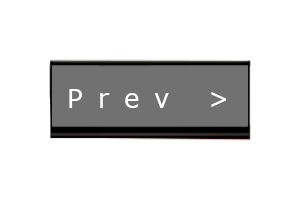
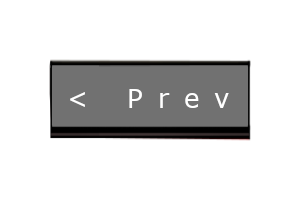
a

diff --git a/Pokedex/main.js b/Pokedex/main.js
@@ -2,17 +2,18 @@ const pokemonImg = document.querySelector('#imgPoke')
 const inptPoke = document.querySelector('#namePoke')
 const nomePoke = document.querySelector('#nomePoke')
 const IDpoke = document.querySelector('#IDpoke')
+const btprev =  document.querySelector('#prev')
+const btnext =  document.querySelector('#next')
 
+var idAtual = 1
 const fetchPoke = async (pokemon) =>{
     const APIresp = await fetch(`https://pokeapi.co/api/v2/pokemon/${pokemon}`);
     const APIdata = await APIresp.json();
-    console.log(APIdata)
     return APIdata
 }
 
 const renderPoke = async (pokemon) => {
     const data = await fetchPoke(pokemon)
-    console.log(data)
     if (data.id > 649){
         pokemonImg.src = data['sprites']['front_default'] // ['versions']['generation-vi']['x-y']
         pokemonImg.style.width = "215px"
@@ -33,4 +34,21 @@ inptPoke.addEventListener('change', (event) => {
     renderPoke(inptPoke.value.toLowerCase())
 });
 
-renderPoke('1')
+btprev.addEventListener('click' , (event) => {
+    event.preventDefault();
+    if (idAtual > 1){
+        idAtual -= 1
+        renderPoke(idAtual)
+    }
+});
+
+btnext.addEventListener('click' , (event) => {
+    event.preventDefault();
+    
+    idAtual += 1
+    renderPoke(idAtual)
+
+});
+
+renderPoke(idAtual)
+

diff --git a/Pokedex/style.css b/Pokedex/style.css
@@ -33,7 +33,7 @@ body{
 }
 #namePoke{
     position: absolute;
-    transform: translate(-60%,610%);
+    transform: translate(-60%,510%);
 
     width: 350px;
     height: 50px;
@@ -61,15 +61,29 @@ body{
 }
 .arrows{
     position: absolute;
-    transform: translate(-34%,270%);
-    
+    transform: translate(-58%,700%);
     display: flex;
     align-items: center;
     justify-content: center;
+    gap:40px;
 
-    width: 20px;
-    height: 20px;
 }
+
+.arrows button{
+
+
+    margin: 10px;
+    width: 120px;
+    padding: 8px;
+    border: 2px solid #000;
+    border-radius: 5px;
+    font-size: clamp(8px, 5vw, 1rem);
+    font-weight: 600;
+    color: white;
+    background-color: #444;
+    box-shadow: -2px 3px 0 #222, -4px 6px 0 #000;
+}
+
 .IDpoke{
     font-size: x-large;
     color: rgb(65, 65, 65);

diff --git a/Pokedex/index.html b/Pokedex/index.html
@@ -11,7 +11,7 @@
     <img class="fundo" src="/Pokedex/imgs/PokedexBlank.png" alt="">
     <div class="main">
         <div class="div-img"> <img id="imgPoke" src="" > </div>
-        <div class="arrows"> <img width="20px" height="20px" src="/Pokedex/imgs/Prev.png" alt=""> <img src="/Pokedex/imgs/Next.png" alt=""></div>
+        <div class="arrows"> <button id="prev"> < Prev </button> <button id="next"> Next > </button></div>
         <div class="info"> <p id="IDpoke" class="IDpoke">#63 - </p><h2 id="nomePoke" class="nomePoke">Bulbasour</h2></div>
         <input type="text" placeholder="Name or Number" id="namePoke">
     </div>
